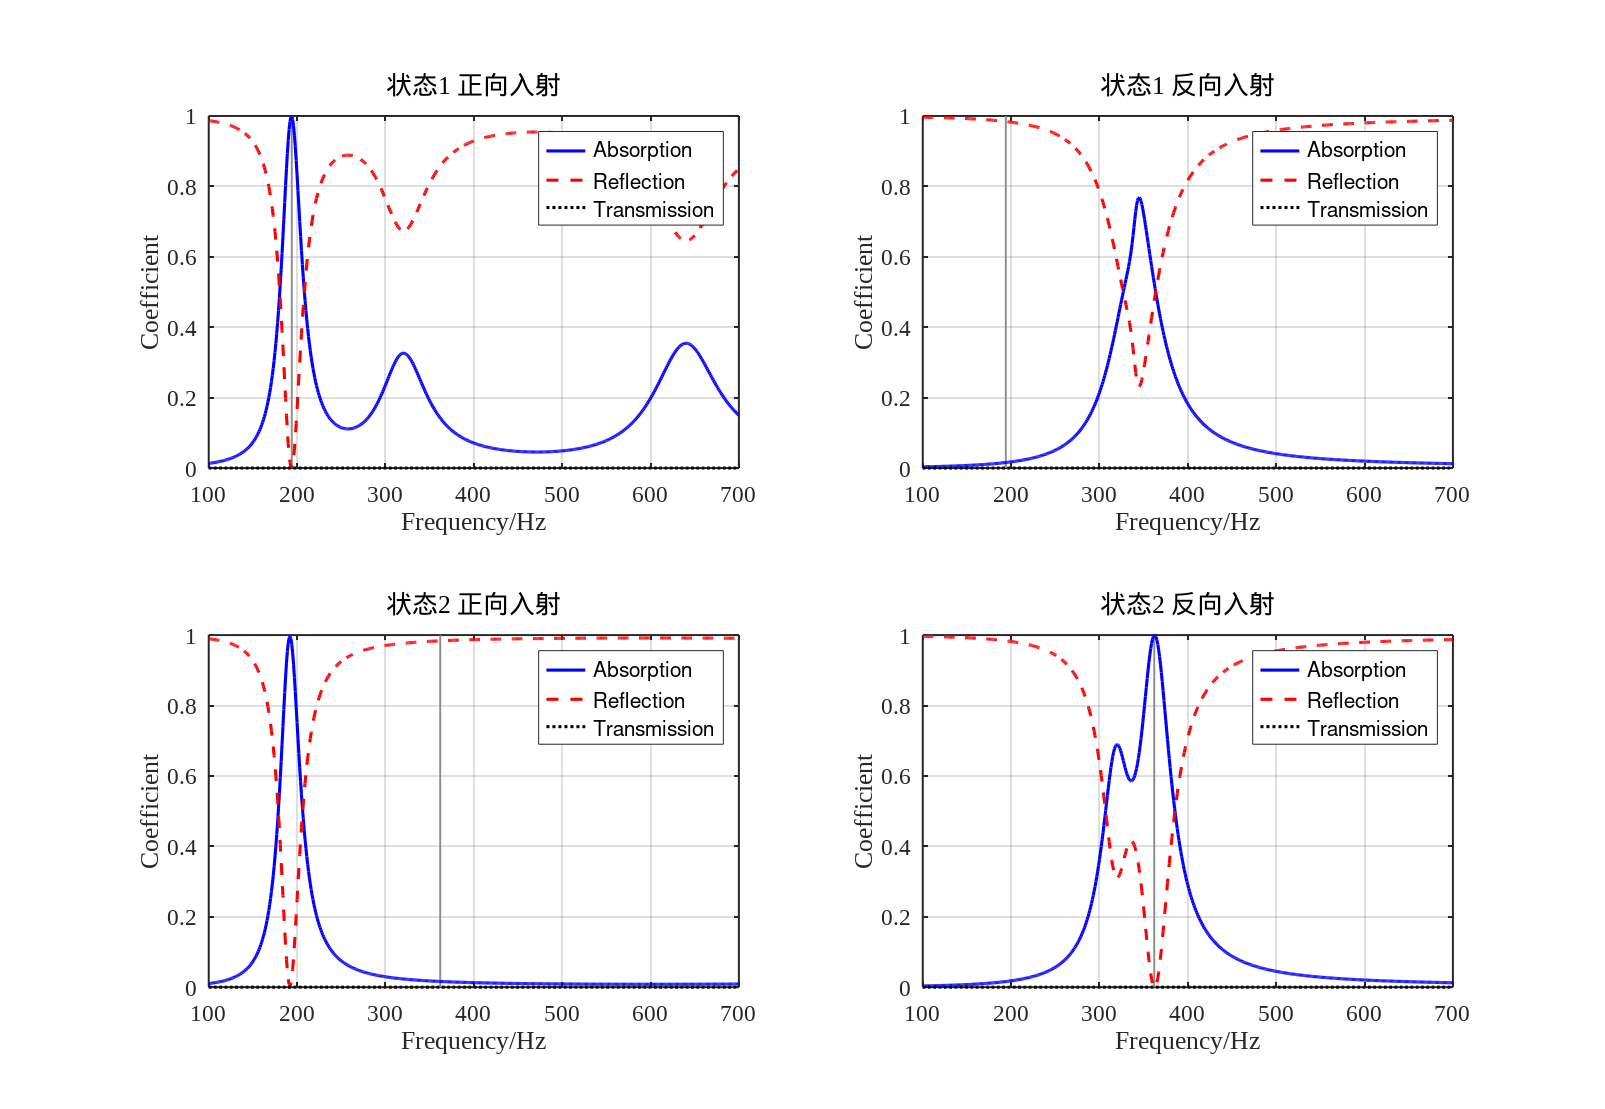
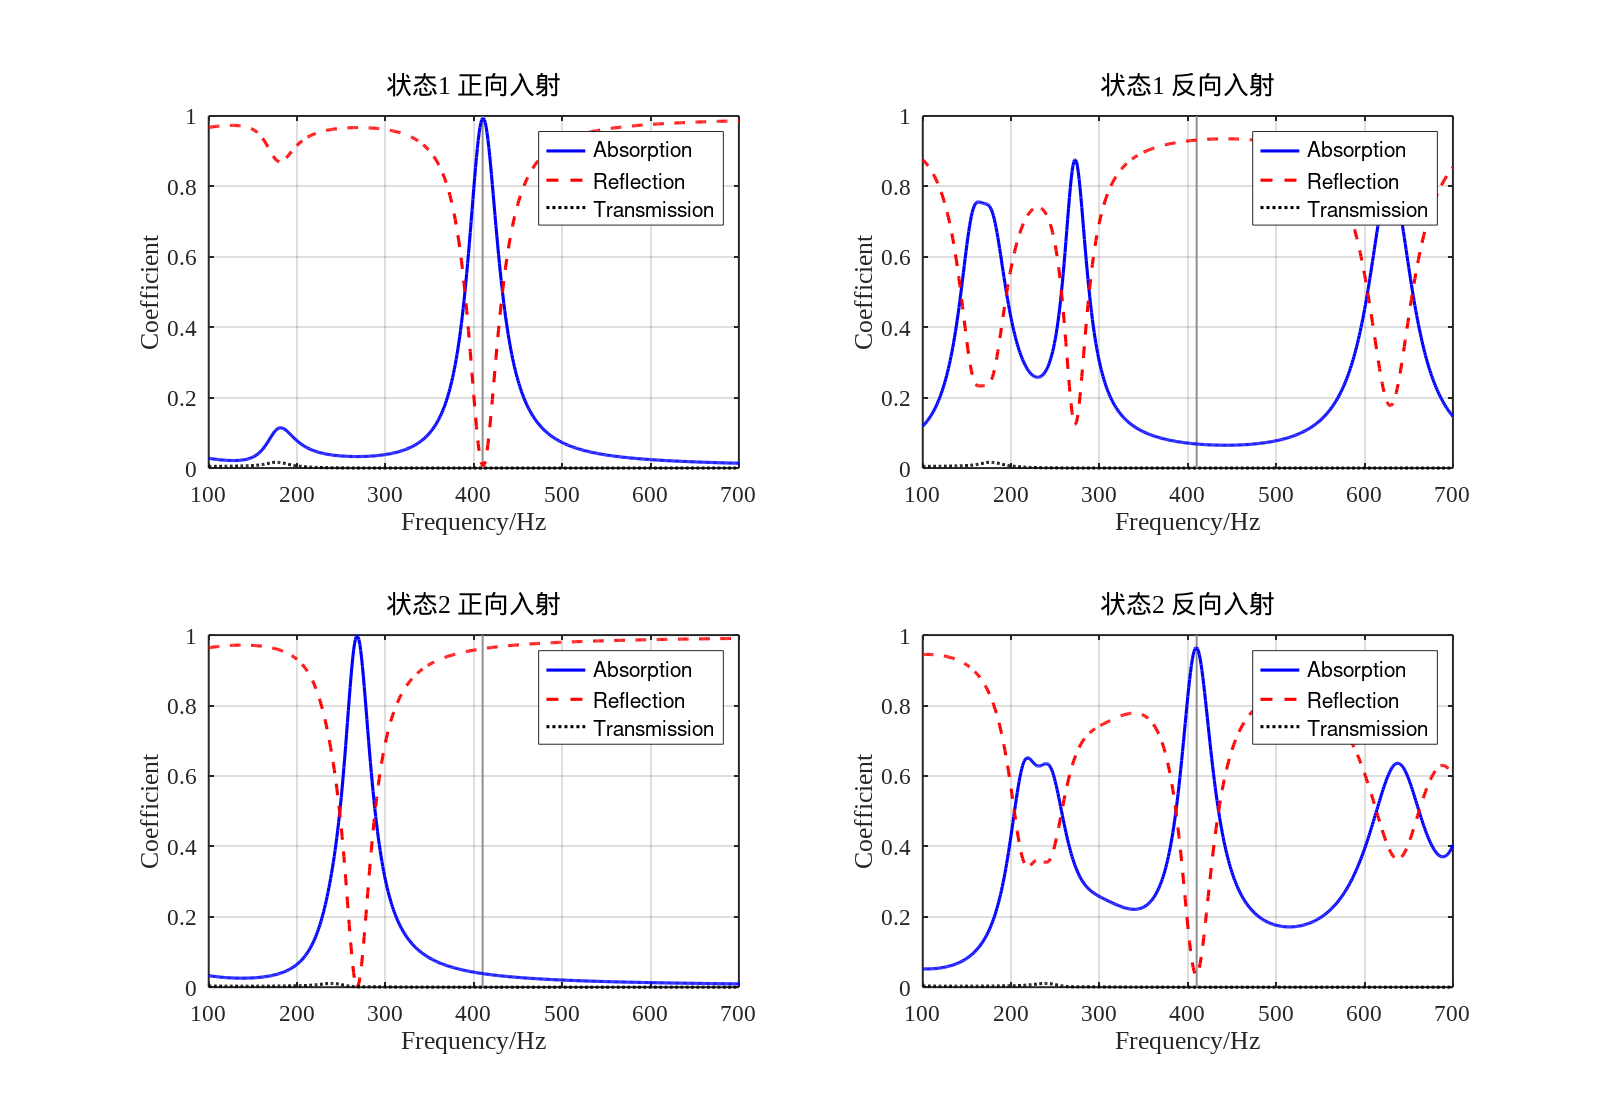
Require both states to swap absorption and reflection at the same frequency.
The transfer matrix places that point at 410 Hz, with the same behavior holding from 407 Hz to 412 Hz.
)

diff --git a/acoustic_nn/origami_dual_mlp.m b/acoustic_nn/origami_dual_mlp.m
@@ -1520,13 +1520,13 @@ modelSearch = prepareModel(fSearch, const);
 modelPlot = prepareModel(fPlot, const);
 lo = [const.dMin * ones(1, 12), const.Hmin * ones(1, 16)];
 hi = [const.dMax * ones(1, 12), const.Hmax * ones(1, 16)];
-fprintf('用传递矩阵搜索单侧完美吸声的频率点，状态2对调两侧。\n');
+fprintf('用传递矩阵搜索同一频率上的两侧对调，并尽量增加这样的频率点。\n');
 bestLoss = inf;
 bestX = [];
-for restart = 1:6
-    fprintf('第 %d / 6 组\n', restart);
+for restart = 1:8
+    fprintf('第 %d / 8 组\n', restart);
     [xTry, lossTry] = deOptimize( ...
-        @(X) epBatchLoss(X, fSearch, modelSearch), lo, hi, 32, 22, []);
+        @(X) epBatchLoss(X, fSearch, modelSearch), lo, hi, 36, 26, []);
     fprintf('  损失 %.6f\n', lossTry);
     if lossTry < bestLoss
         bestLoss = lossTry;
@@ -1535,10 +1535,18 @@ for restart = 1:6
 end
 bestX = epPolish(bestX, fPlot, modelPlot, const);
 [lossFinal, rep] = epOne(bestX, fPlot, modelPlot);
-fprintf('\n========== 传递矩阵 EP 结果 ==========\n');
-fprintf('总损失 %.6f\n', lossFinal);
-printEp('状态1 正向完美吸声', rep.f1, rep.af1, rep.Rf1, rep.T1, rep.ab1, rep.Rb1);
-printEp('状态2 反向完美吸声', rep.f2, rep.ab2, rep.Rb2, rep.T2, rep.af2, rep.Rf2);
+fprintf('\n========== 同一频率上的两侧对调 ==========\n');
+fprintf('最好频率 %.0f Hz，联合损失 %.6f，达标频率点 %d 个\n', ...
+    rep.f1, lossFinal, rep.nGood);
+fprintf('状态1  正向吸声 %.4f  反射 %.4f  透射 %.4f\n', rep.af1, rep.Rf1, rep.T1);
+fprintf('状态1  反向吸声 %.4f  反射 %.4f  透射 %.4f\n', rep.ab1, rep.Rb1, rep.T1);
+fprintf('状态2  正向吸声 %.4f  反射 %.4f  透射 %.4f\n', rep.af2, rep.Rf2, rep.T2);
+fprintf('状态2  反向吸声 %.4f  反射 %.4f  透射 %.4f\n', rep.ab2, rep.Rb2, rep.T2);
+if rep.nGood > 0
+    fprintf('这些频率上两侧同时对调：');
+    fprintf(' %.0f', rep.goodF);
+    fprintf(' Hz\n');
+end
 dMm = bestX(1:12);
 H1mm = bestX(13:20);
 H2mm = bestX(21:28);
@@ -1566,13 +1574,22 @@ d = X(:, 1:12);
 [af2, ab2, Rf2, Rb2, T2] = acousticPower(d, X(:, 21:28), f, model);
 c1 = (af1 - 1) .^ 2 + Rf1 .^ 2 + T1 .^ 2 + (Rb1 - 1) .^ 2 + ab1 .^ 2;
 c2 = (ab2 - 1) .^ 2 + Rb2 .^ 2 + T2 .^ 2 + (Rf2 - 1) .^ 2 + af2 .^ 2;
-[best1, i1] = min(c1, [], 2);
-[best2, i2] = min(c2, [], 2);
-bad = ~all(isfinite(c1), 2) | ~all(isfinite(c2), 2);
-loss = best1 + best2;
+joint = c1 + c2;
+js = sort(joint, 2);
+nKeep = min(5, size(js, 2));
+bestJoint = js(:, 1);
+spread = mean(js(:, 1:nKeep), 2);
+[~, iSame] = min(joint, [], 2);
+good = af1 >= 0.95 & Rf1 <= 0.05 & T1 <= 0.05 & Rb1 >= 0.95 & ab1 <= 0.05 ...
+    & ab2 >= 0.95 & Rb2 <= 0.05 & T2 <= 0.05 & Rf2 >= 0.95 & af2 <= 0.05;
+nGood = sum(good, 2);
+bad = ~all(isfinite(joint), 2);
+loss = bestJoint + 0.08 * spread - 0.01 * nGood;
 loss(bad) = 1e3;
-info.i1 = i1;
-info.i2 = i2;
+info.i1 = iSame;
+info.i2 = iSame;
+info.nGood = nGood;
+info.good = good;
 info.af1 = af1;
 info.ab1 = ab1;
 info.Rf1 = Rf1;
@@ -1587,20 +1604,21 @@ end
 
 function [loss, rep] = epOne(x, f, model)
 [loss, info] = epMetrics(x, f, model);
-k1 = info.i1(1);
-k2 = info.i2(1);
-rep.f1 = f(k1);
-rep.af1 = info.af1(1, k1);
-rep.ab1 = info.ab1(1, k1);
-rep.Rf1 = info.Rf1(1, k1);
-rep.Rb1 = info.Rb1(1, k1);
-rep.T1 = info.T1(1, k1);
-rep.f2 = f(k2);
-rep.af2 = info.af2(1, k2);
-rep.ab2 = info.ab2(1, k2);
-rep.Rf2 = info.Rf2(1, k2);
-rep.Rb2 = info.Rb2(1, k2);
-rep.T2 = info.T2(1, k2);
+k = info.i1(1);
+rep.f1 = f(k);
+rep.f2 = f(k);
+rep.af1 = info.af1(1, k);
+rep.ab1 = info.ab1(1, k);
+rep.Rf1 = info.Rf1(1, k);
+rep.Rb1 = info.Rb1(1, k);
+rep.T1 = info.T1(1, k);
+rep.af2 = info.af2(1, k);
+rep.ab2 = info.ab2(1, k);
+rep.Rf2 = info.Rf2(1, k);
+rep.Rb2 = info.Rb2(1, k);
+rep.T2 = info.T2(1, k);
+rep.nGood = info.nGood(1);
+rep.goodF = f(info.good(1, :));
 end
 
 function x = epPolish(x, f, model, const)

diff --git a/acoustic_nn/ep_reversal_result.m b/acoustic_nn/ep_reversal_result.m
@@ -34,26 +34,25 @@ t = 2e-3*ones(Nc,3);
 
 % 12 个孔径（m）。每行一个单胞，三列是三块板。两态共用。
 d = 1e-3 * [
-    8.000000  0.190362  2.937947;
-    5.383374  2.741657  0.100000;
-    0.100000  4.984316  8.000000;
-    8.000000  8.000000  0.100000
+    2.711804  0.100000  1.501016;
+    0.164117  0.761422  7.061863;
+    1.052348  1.809400  5.681181;
+    0.100000  2.072803  4.195915
 ];
 
-% 状态 1：正向在一个频率上接近完美吸声，反向接近全反射。
+% 状态1 与状态2 在同一频率上对调两侧。
 H1 = 1e-3 * [
-    62.900654  60.781378;
-    18.939748  80.000000;
-    72.038798  14.176110;
-    80.000000  66.004906
+    44.744852  75.888004;
+    34.111026  23.505248;
+    80.000000  57.129677;
+    47.479635  10.000000
 ];
 
-% 状态 2：两侧对调。
 H2 = 1e-3 * [
-    10.000000  56.893990;
-    22.703873  80.000000;
-    75.716011  10.000000;
-    10.000000  10.000000
+    73.585316  55.799944;
+    10.000000  59.739953;
+    65.354778  16.662131;
+    16.942028  50.921573
 ];
 
 n_holes = ones(Nc,3);
@@ -197,27 +196,34 @@ for state = 1:2
     trans(state,:) = abs(tau).^2;
 end
 
-%% 7. 单侧完美吸声频率点
+%% 7. 同一频率上的两侧对调
 
-% 状态1：正向吸声接近 1，同时反向反射接近 1。
-score1 = squeeze(alpha(1,1,:)).' - squeeze(refl(1,1,:)).' - squeeze(trans(1,:)) ...
-    + squeeze(refl(1,2,:)).' - squeeze(alpha(1,2,:)).';
-[~, i1] = max(score1);
-% 状态2：反向吸声接近 1，同时正向反射接近 1。
-score2 = squeeze(alpha(2,2,:)).' - squeeze(refl(2,2,:)).' - squeeze(trans(2,:)) ...
-    + squeeze(refl(2,1,:)).' - squeeze(alpha(2,1,:)).';
-[~, i2] = max(score2);
-fp = [f(i1), f(i2)];
+af1 = squeeze(alpha(1,1,:)).';
+ab1 = squeeze(alpha(1,2,:)).';
+Rf1 = squeeze(refl(1,1,:)).';
+Rb1 = squeeze(refl(1,2,:)).';
+T1 = trans(1,:);
+af2 = squeeze(alpha(2,1,:)).';
+ab2 = squeeze(alpha(2,2,:)).';
+Rf2 = squeeze(refl(2,1,:)).';
+Rb2 = squeeze(refl(2,2,:)).';
+T2 = trans(2,:);
+joint = (af1-1).^2 + Rf1.^2 + T1.^2 + (Rb1-1).^2 + ab1.^2 ...
+    + (ab2-1).^2 + Rb2.^2 + T2.^2 + (Rf2-1).^2 + af2.^2;
+[~, iBest] = min(joint);
+near = af1>=0.95 & Rf1<=0.05 & T1<=0.02 & Rb1>=0.90 & ab1<=0.08 ...
+    & ab2>=0.95 & Rb2<=0.05 & T2<=0.02 & Rf2>=0.90 & af2<=0.08;
+fp = [f(iBest), f(iBest)];
 
-fprintf('\n========== 单侧完美吸声 ==========\n');
-fprintf('状态1  %.0f Hz  正向吸声 %.4f  反射 %.4f  透射 %.4f\n', ...
-    f(i1), alpha(1,1,i1), refl(1,1,i1), trans(1,i1));
-fprintf('状态1  %.0f Hz  反向吸声 %.4f  反射 %.4f  透射 %.4f\n', ...
-    f(i1), alpha(1,2,i1), refl(1,2,i1), trans(1,i1));
-fprintf('状态2  %.0f Hz  反向吸声 %.4f  反射 %.4f  透射 %.4f\n', ...
-    f(i2), alpha(2,2,i2), refl(2,2,i2), trans(2,i2));
-fprintf('状态2  %.0f Hz  正向吸声 %.4f  反射 %.4f  透射 %.4f\n', ...
-    f(i2), alpha(2,1,i2), refl(2,1,i2), trans(2,i2));
+fprintf('\n========== 同一频率上的两侧对调 ==========\n');
+fprintf('最好频率 %.0f Hz\n', f(iBest));
+fprintf('状态1  正向吸声 %.4f  反射 %.4f  透射 %.4f\n', af1(iBest), Rf1(iBest), T1(iBest));
+fprintf('状态1  反向吸声 %.4f  反射 %.4f  透射 %.4f\n', ab1(iBest), Rb1(iBest), T1(iBest));
+fprintf('状态2  正向吸声 %.4f  反射 %.4f  透射 %.4f\n', af2(iBest), Rf2(iBest), T2(iBest));
+fprintf('状态2  反向吸声 %.4f  反射 %.4f  透射 %.4f\n', ab2(iBest), Rb2(iBest), T2(iBest));
+fprintf('接近这一标准的频率点 %d 个：', sum(near));
+fprintf(' %.0f', f(near));
+fprintf(' Hz\n');
 
 %% 8. 绘图
 
